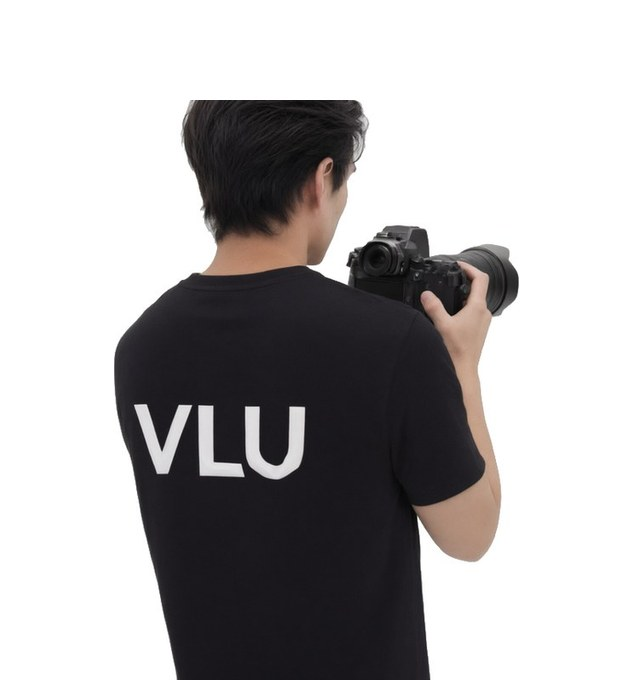
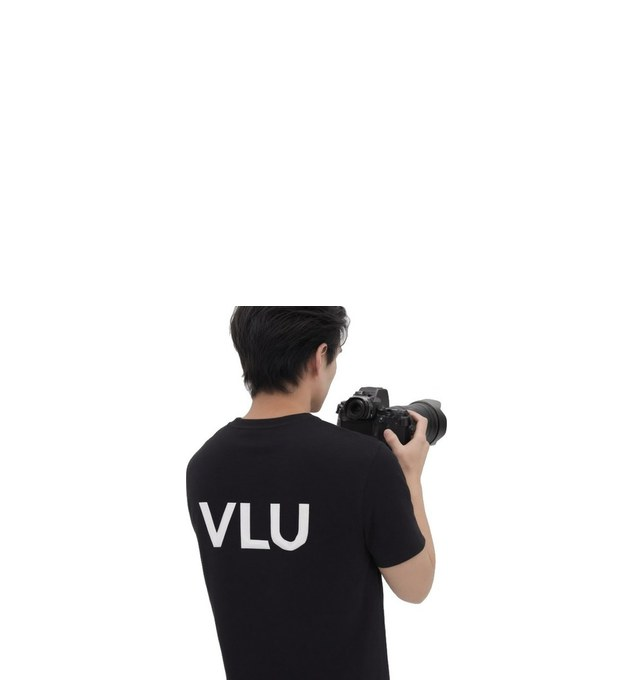
style: match reference composition, small figure sunk bottom with large headroom

Changed region(s): [[0.1804, 0.1235, 0.8418, 1.0]]

diff --git a/src/components/home-v8/V8ServiceCards.jsx b/src/components/home-v8/V8ServiceCards.jsx
@@ -37,7 +37,7 @@ export default function V8ServiceCards({ lang = 'zh' }) {
         <div className="v8-svc__col">
           <div className="v8-svc__card v8-svc__card--img v8-svc__card--photog">
             <span className="v8-svc__card-t">{t.c1a}</span>
-            <span className="v8-svc__imgbox"><img src="/images/photographer.jpg" alt="" loading="lazy" /></span>
+            <span className="v8-svc__imgbox"><img src="/images/photographer.jpg?v=3" alt="" loading="lazy" /></span>
           </div>
           <div className="v8-svc__card v8-svc__card--mini">
             <span className="v8-svc__card-t">{t.c1b}</span>
